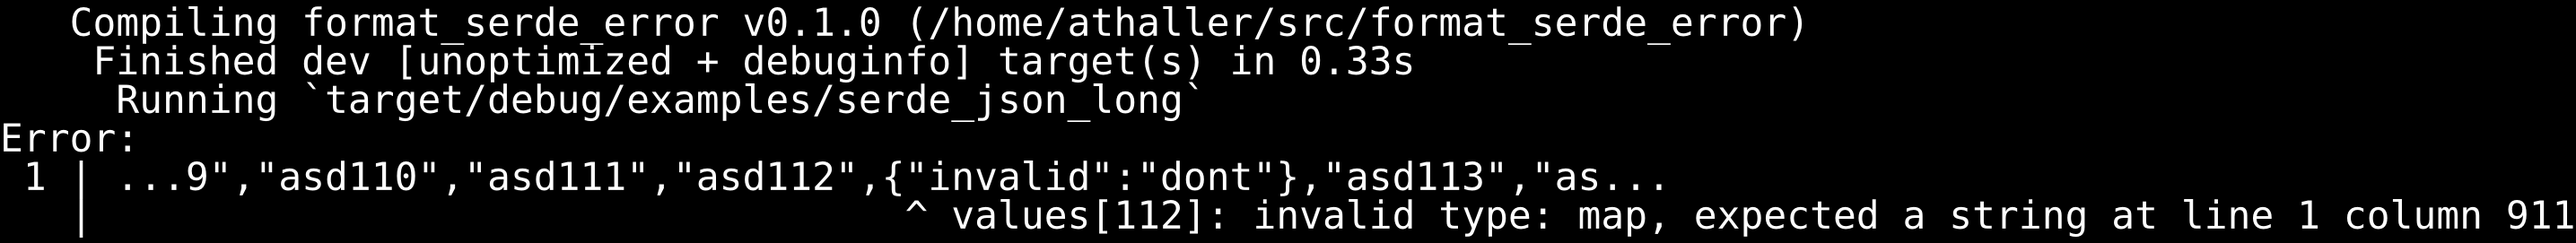
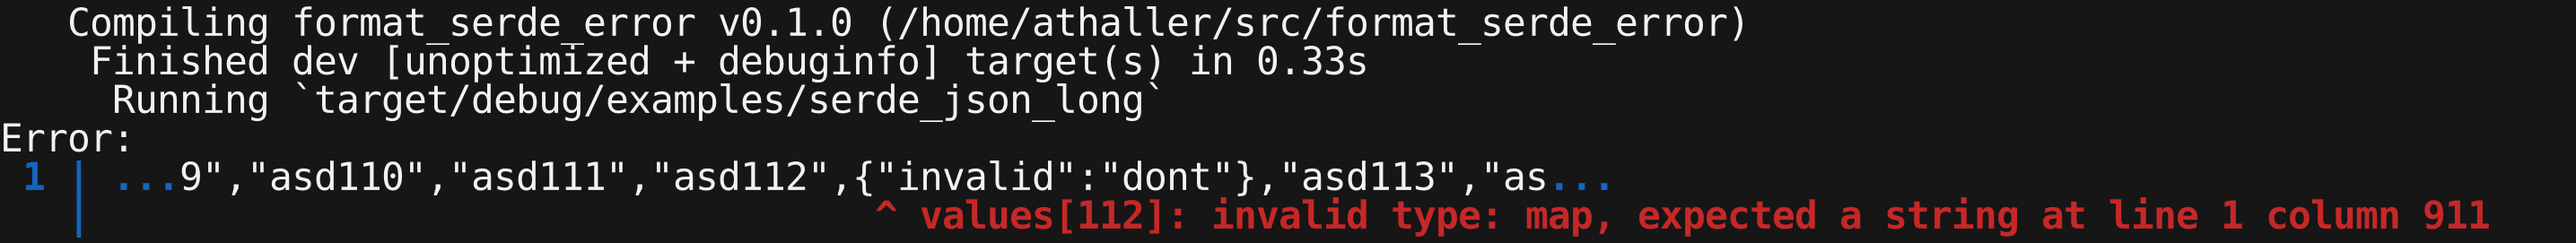
Add colors

diff --git a/src/main.rs b/src/main.rs
@@ -1,5 +1,6 @@
 use ansi_parser::{
     AnsiParser,
+    AnsiSequence,
     Output,
 };
 use image::{
@@ -13,15 +14,24 @@ use rusttype::{
 };
 use std::path::Path;
 
+mod pallete;
+
 fn main() {
     let parsed: Vec<Output> = include_str!("../resources/out.ansi").ansi_parse().collect();
 
     let path = Path::new("output.png");
 
+    let pallete: pallete::Palette = pallete::Custom {}.into();
+
     let font = Vec::from(
         include_bytes!("../resources/dejavu-fonts-ttf-2.37/ttf/DejaVuSansMono.ttf") as &[u8],
     );
+    let font_bold = Vec::from(include_bytes!(
+        "../resources/dejavu-fonts-ttf-2.37/ttf/DejaVuSansMono-Bold.ttf"
+    ) as &[u8]);
+
     let font = Font::try_from_vec(font).unwrap();
+    let font_bold = Font::try_from_vec(font_bold).unwrap();
 
     let height = 50.0;
     let scale = Scale {
@@ -64,33 +74,58 @@ fn main() {
 
     let mut image = RgbImage::new(width, height);
 
-    let draw_x = 0;
+    // Set background
+    for (_x, _y, pixel) in image.enumerate_pixels_mut() {
+        *pixel = image::Rgb(pallete.primary_background);
+    }
+
+    let mut draw_x = 0;
     let mut draw_y = 0;
+    let mut foreground_color = Rgb(pallete.primary_foreground);
+    let mut text_bold = false;
 
-    parsed
-        .iter()
-        .filter_map(|block| {
-            if let Output::TextBlock(text) = block {
-                Some(text.to_string())
+    parsed.iter().for_each(|block| match block {
+        Output::TextBlock(text) => text.chars().for_each(|c| {
+            let draw_font = if text_bold { &font_bold } else { &font };
+
+            if c == '\n' {
+                draw_x = 0;
+                draw_y += new_line_distance
             } else {
-                None
-            }
-        })
-        .collect::<String>()
-        .lines()
-        .for_each(|line| {
-            draw_text_mut(
-                &mut image,
-                Rgb([255u8, 255u8, 255u8]),
-                draw_x,
-                draw_y,
-                scale,
-                &font,
-                &line,
-            );
+                draw_text_mut(
+                    &mut image,
+                    foreground_color,
+                    draw_x,
+                    draw_y,
+                    scale,
+                    draw_font,
+                    &c.to_string(),
+                );
 
-            draw_y += new_line_distance;
-        });
+                let advance_width = font.glyph(c).scaled(scale).h_metrics().advance_width;
+                draw_x += advance_width as u32;
+            }
+        }),
+
+        Output::Escape(escape) => {
+            if let AnsiSequence::SetGraphicsMode(values) = escape {
+                for value in values {
+                    match value {
+                        0 => {
+                            text_bold = false;
+                            foreground_color = Rgb(pallete.primary_foreground)
+                        }
+                        1 => text_bold = true,
+                        31 => foreground_color = Rgb(pallete.foreground_red),
+                        34 => foreground_color = Rgb(pallete.foreground_blue),
+                        _ => {
+                            dbg!("not implemented for {}", value);
+                        }
+                    }
+                }
+            }
+        }
+    });
 
     let _ = image.save(path).unwrap();
 }

diff --git a/src/pallete.rs b/src/pallete.rs
@@ -1,0 +1,22 @@
+#[derive(Debug)]
+pub struct Palette {
+    pub primary_background: [u8; 3],
+    pub primary_foreground: [u8; 3],
+    pub foreground_blue: [u8; 3],
+    pub foreground_red: [u8; 3],
+}
+
+pub struct Custom {}
+
+impl From<Custom> for Palette {
+    fn from(_: Custom) -> Self {
+        Palette {
+            // primary_background: "0x161616".parse().unwrap(),
+            // primary_foreground: "0xf2f2f2".parse().unwrap(),
+            primary_foreground: [242, 242, 242],
+            primary_background: [22, 22, 22],
+            foreground_blue: [21, 101, 193],
+            foreground_red: [198, 40, 40],
+        }
+    }
+}
